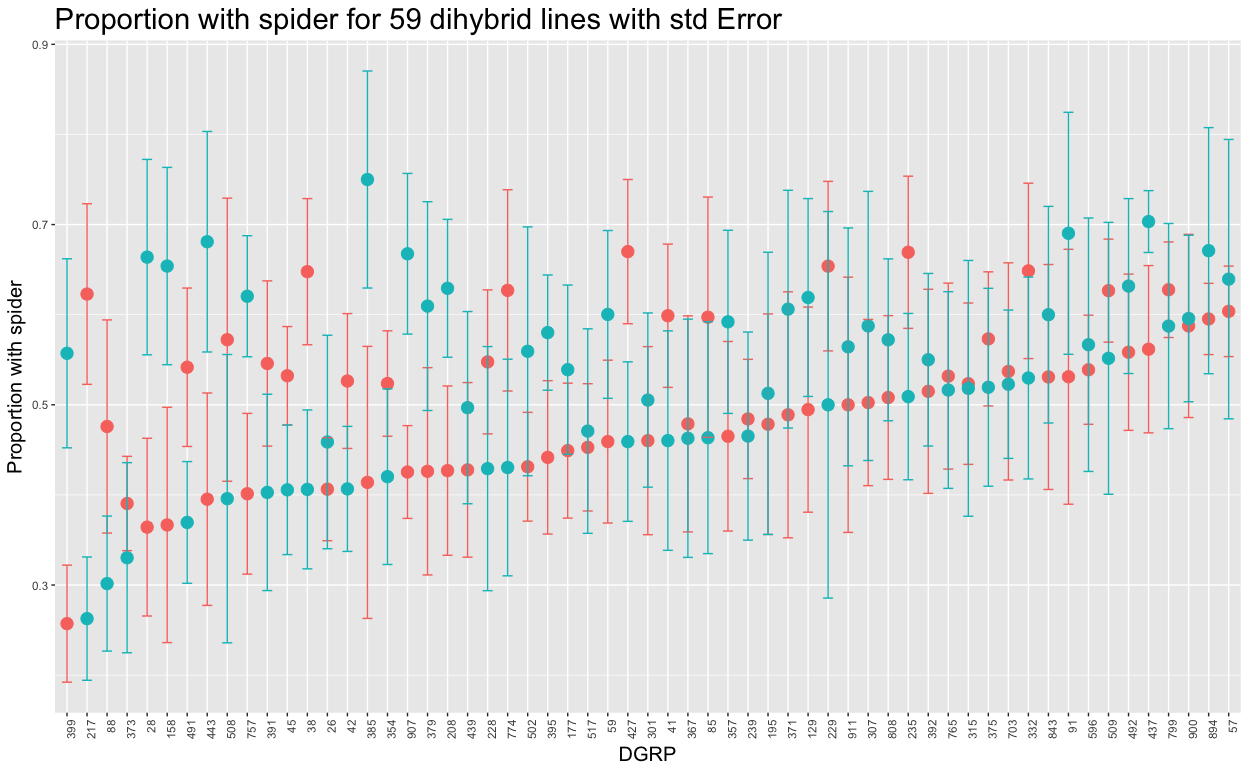
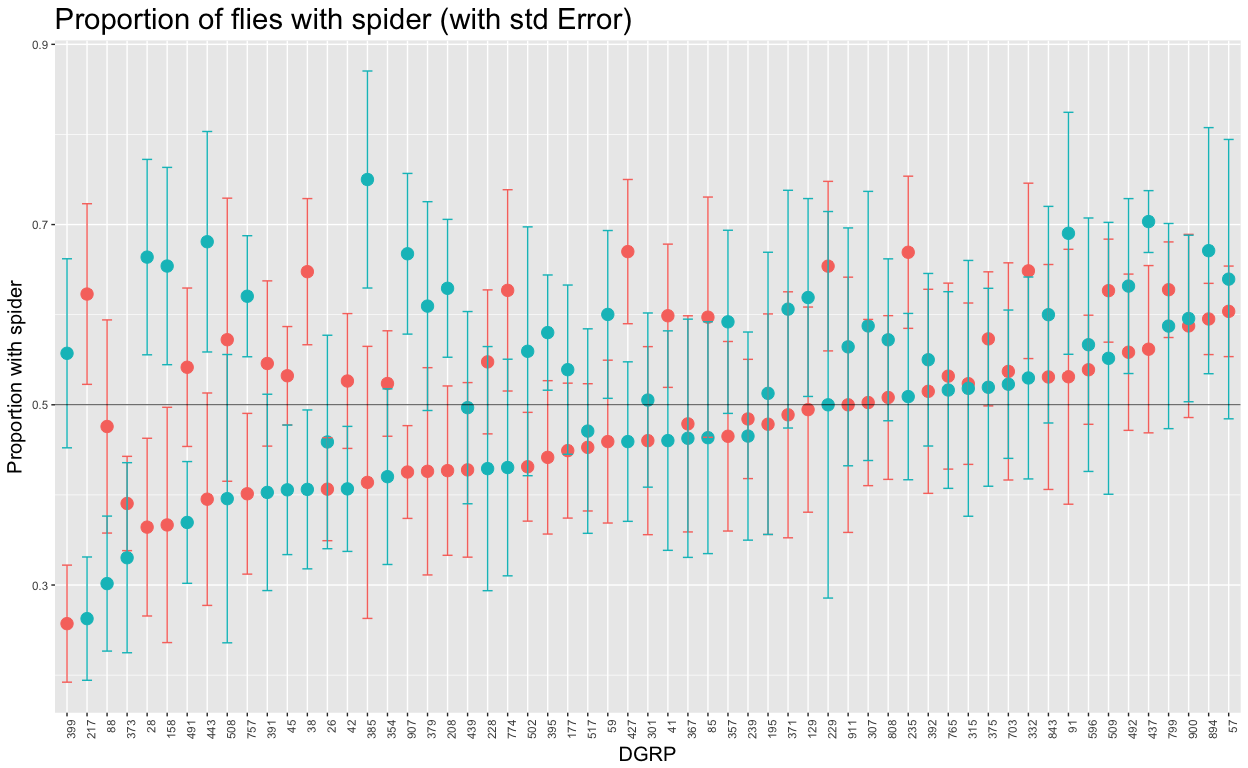
Edited some plots and added comments to start about the project

Changed region(s): [[0.1562, 0.0, 0.625, 0.0625]]

diff --git a/r_script_Jan_18.md b/r_script_Jan_18.md
@@ -6,11 +6,32 @@ How do different DGRP di-hybrid lines vary in their ability to perceive and avoi
 
 ### Hypothesis:
 
-DGRP dihybrids will show significant genetic variation in ability to percieve predator cues
+DGRP dihybrids will show significant genetic variation in ability to percieve predator cues.
 
 ### Prediction:
 
 Each DGRP dihybrid lines will show within line consistancy, but display between line variability in the proportion within a spider vial, ranging from very low (~ 0%, avoiding spider cues) to a random assortment (~50%, randomly assortment, not recognizing spider cues).
+
+### What I still want done:
+
+1.  More precise statistics/ models
+2.  Correlation to aggression, activity and sociability
+3.  Increase sample size for some (or all) lines
+4.  Reanalyze some very high and low lines or with evolved populations
+
+### Notes on protocol and results
+
+-   10 sets of data collection, 7 of which have all lines at once, 3 days with random selection of lines (both sexes done on same day)
+
+-   Flies aged 4-5 days old, with opportunities to mate before experiment start
+
+-   10 flies of same sex into bin with two vials, one with spider, one without spider
+
+-   count number of flies in each vial after 24 hours and 48 hours
+
+-   removed all those with &lt; 6 flies in both vials together
+
+-   all results below for 48 hour counts
 
 ### Sex Correlation:
 
@@ -137,69 +158,3 @@ summary(mod2)
     ## Temp_Scaled  0.051  0.000              
     ## Humdty_Scld -0.084  0.004 -0.296       
     ## BP_Scaled   -0.006  0.001  0.372 -0.153
-
-``` r
-mod3 <- lmer(proportion_spider ~ 1 + (1|Date) 
-             + (1|DGRP), data = DGRP_by_counts)
-
-summary(mod3)
-```
-
-    ## Linear mixed model fit by REML ['lmerMod']
-    ## Formula: proportion_spider ~ 1 + (1 | Date) + (1 | DGRP)
-    ##    Data: DGRP_by_counts
-    ## 
-    ## REML criterion at convergence: 354.4
-    ## 
-    ## Scaled residuals: 
-    ##      Min       1Q   Median       3Q      Max 
-    ## -1.86789 -0.80425 -0.02344  0.89182  1.74799 
-    ## 
-    ## Random effects:
-    ##  Groups   Name        Variance  Std.Dev.
-    ##  DGRP     (Intercept) 0.0000000 0.00000 
-    ##  Date     (Intercept) 0.0006217 0.02493 
-    ##  Residual             0.0836797 0.28927 
-    ## Number of obs: 961, groups:  DGRP, 59; Date, 10
-    ## 
-    ## Fixed effects:
-    ##             Estimate Std. Error t value
-    ## (Intercept)  0.52093    0.01239   42.03
-
-``` r
-mod4 <- lmer(Mean_prop_spi ~ 1 + Sex + Mean_temp_scaled + Mean_hum_scaled + Mean_BP_scaled + 
-               (1|DGRP), data = DGRP_sub)
-summary(mod4)
-```
-
-    ## Linear mixed model fit by REML ['lmerMod']
-    ## Formula: Mean_prop_spi ~ 1 + Sex + Mean_temp_scaled + Mean_hum_scaled +  
-    ##     Mean_BP_scaled + (1 | DGRP)
-    ##    Data: DGRP_sub
-    ## 
-    ## REML criterion at convergence: -191.7
-    ## 
-    ## Scaled residuals: 
-    ##      Min       1Q   Median       3Q      Max 
-    ## -2.83046 -0.73402  0.06989  0.70417  2.18452 
-    ## 
-    ## Random effects:
-    ##  Groups   Name        Variance Std.Dev.
-    ##  DGRP     (Intercept) 0.000000 0.00000 
-    ##  Residual             0.009471 0.09732 
-    ## Number of obs: 118, groups:  DGRP, 59
-    ## 
-    ## Fixed effects:
-    ##                   Estimate Std. Error t value
-    ## (Intercept)       0.511204   0.013000   39.32
-    ## SexMale           0.019326   0.017927    1.08
-    ## Mean_temp_scaled -0.013413   0.054664   -0.25
-    ## Mean_hum_scaled   0.008155   0.028983    0.28
-    ## Mean_BP_scaled   -0.027795   0.048613   -0.57
-    ## 
-    ## Correlation of Fixed Effects:
-    ##             (Intr) SexMal Mn_tm_ Mn_hm_
-    ## SexMale     -0.686                     
-    ## Mn_tmp_scld  0.124  0.012              
-    ## Men_hm_scld  0.037  0.020 -0.400       
-    ## Men_BP_scld  0.186  0.000  0.758 -0.411
